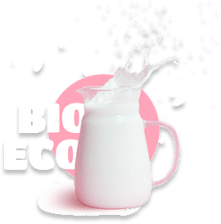
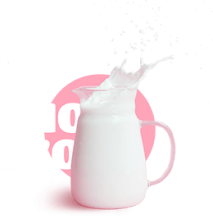
desktop work

diff --git a/src/sass/layout/_hero.scss b/src/sass/layout/_hero.scss
@@ -11,8 +11,8 @@
    }
 
    @media screen and(min-width:768px) {
-      padding-top: 80px;
-      padding-bottom: 187px;
+      padding-top: 100px;
+      padding-bottom: 185px;
    }
 }
 
@@ -41,9 +41,6 @@
       font-size: 22px;
       line-height: 1.14;
       width: 162px;
-
-      margin-top: 20px;
-      
    }
 }
 
@@ -58,9 +55,7 @@
    @media screen and(min-width:768px) {
       font-size: 34px;
    line-height: 1;
-   
-      
-   }
+}
 }
 
 .hero__list {
@@ -74,29 +69,24 @@
 
 
 .btn__primary {
-      
    cursor: pointer;
-
-  border-style: none;
-  border-radius: 20px;
+   border-style: none;
+   border-radius: 20px;
    align-items: center;
 
-  
+   position: relative;
+   z-index: 25;         
+   padding: 7px 16px;
    
-      position: relative;
-      z-index: 25;         
-      padding: 7px 16px;
-   
-      vertical-align: middle;
-      font-weight: 400;
-      font-size: 8px;
-      line-height: 1.25;
-      color: var(--primary-text-color);
-      background: #C7133E;
+   vertical-align: middle;
+   font-weight: 400;
+   font-size: 8px;
+   line-height: 1.25;
+   color: var(--primary-text-color);
+   background: #C7133E;
+   margin: 0;
 
-      
-
-      margin: 0;
+   transition: color 250ms var(--timing-function), background-color 250ms var(--timing-function);
    //    &:hover,
    //    &:focus {
    //       color: var(--primary-text-color);
@@ -105,7 +95,6 @@
    }
    
    .btn__secondary {
-      
       @extend %button;
       padding: 7px 13px;
       margin: 0;
@@ -136,19 +125,17 @@
          top: -59px;
          left: 248px;
       }
-
    }
 
 .hero__circle {
-   
-
    border-radius: 50%;
-   background: #FFA5BA;
+   background: var(--title-text-color);
    
-
    height: 344px;
    width: 346px;
-   // z-index: 10;
+   
+   // transform-origin: 48% 47%;
+   // animation: rotateRing 10000ms linear 1000ms infinite;
 
    @media screen and(min-width:768px) {
       width: 335px;
@@ -184,7 +171,42 @@
       display: none;
    }
 }
-@media screen and(min-width:768px) {
+// @media screen and(min-width:768px) {
+//    .hero__description {
+//       font-family: 'DM Sans';
+//       font-style: normal;
+//       font-weight: 400;
+//       font-size: 8px;
+//       line-height: 1.5;
+//       letter-spacing: normal;
+
+//       width: 114px;
+
+//       color: #FFFFFF;
+
+//       position: absolute;
+//       top: 187px;
+
+//       z-index: 300;
+//       left: 184px;
+
+//       margin-bottom: 0;
+//    }
+//    .hero__girl {
+//       position: absolute;
+//       top: 165px;
+//       right: 32px;
+//       z-index: 100;
+//    }
+
+//    .hero__milk{
+//       position: absolute;
+//       top: 146px;
+//    }
+// }
+
+
+@media screen and(min-width: 768px) {
    .hero__description {
       font-family: 'DM Sans';
       font-style: normal;
@@ -205,25 +227,18 @@
 
       margin-bottom: 0;
    }
-}
+   .hero__girl {
+      position: absolute;
+      top: 165px;
+      right: 32px;
+      z-index: 100;
+   }
 
-@media screen and(min-width:768px) {
-.hero__girl {
-   position: absolute;
-   top: 165px;
-   right: 32px;
-   z-index: 100;
-}
-}
-
-@media screen and(min-width:768px) {
    .hero__milk{
       position: absolute;
       top: 146px;
    }
-}
 
-@media screen and(min-width: 768px) {
    .hero__counter {
       
       position: absolute;
@@ -356,31 +371,34 @@
       display: block;
       margin-top: 1px;
       margin-left: 3px;
-         }
+   }
 
+   .hero__list-item:first-child a {
+      margin-right: 12px;
+   }
+   
    .hero__counter {
-      top:10px;
+      top: 10px;
+      right: 34px;
    }      
    .hero__counter-number{
       font-size: 46px;
-      line-height: 1.15px;
+      line-height: 1.15;
    }
    .hero__counter-circle {
       width: 30px;
       height: 30px;
 
-      left: 66px;
-      top: -30px;
-    
+      left: 60px;
+      top: -5px;
    }
 
    .hero__counter-information:nth-child(1){
-      margin-bottom: 38px;
+      margin-bottom: 18px;
    }
    .hero__counter-text {
       font-size: 14px;
       line-height: 1.28;
-      margin-top: 2px;
    }
    .hero__girl {
       top:277px;
@@ -389,18 +407,19 @@
    .hero__circle{
       width: 534px;
       height: 534px;
+
+      
    }
    .hero__icecream {
       top:54px;
       left: 119px;
    }
    .hero__image {
-      left: 480px;
+      left: 502px;
       top: -93px;
    }
    .hero__milk {
       top: 241px;
    }
-   
 }
    

diff --git a/src/partials/hero.html b/src/partials/hero.html
@@ -9,7 +9,7 @@
 
       <div class="hero__image">
          <div class="hero__circle"></div>
-         <div class="hero__icecream">
+         <div class="hero__icecream animate__animated animate__headShake">
             
 
             <picture>
